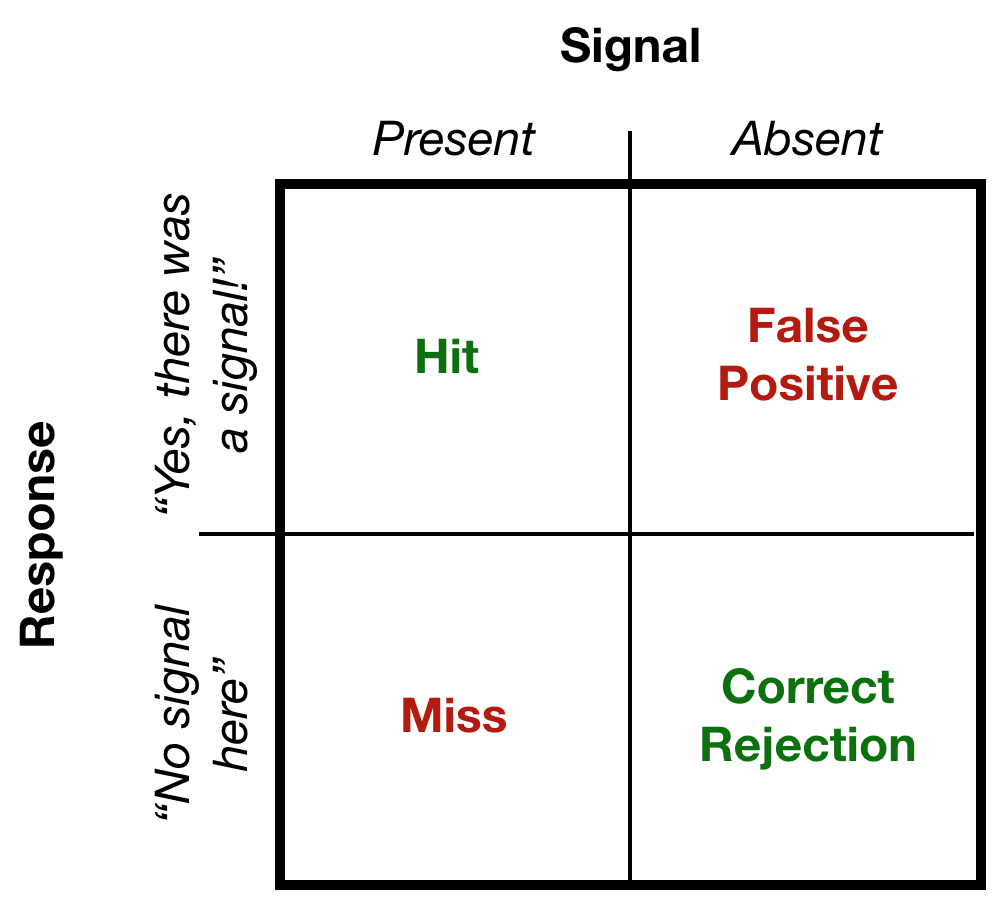
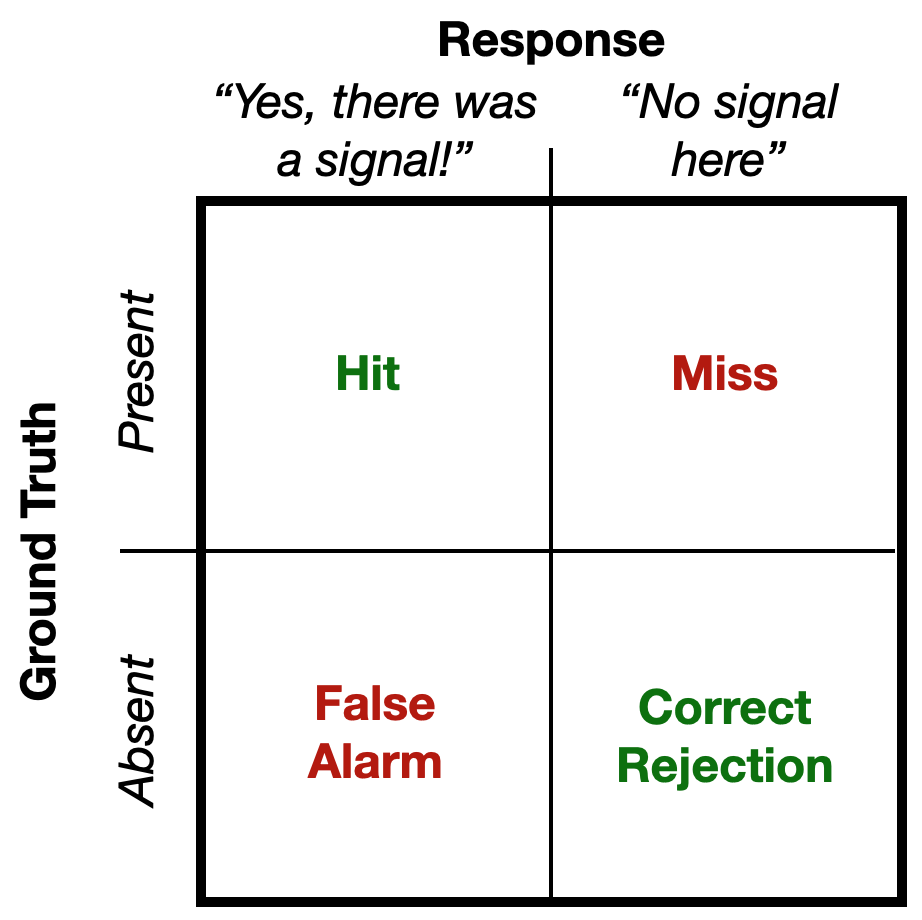
changes to dp calc for psych30 2020: false positives -> false alarms, switches order of entries in d-prime primer 2x2 table

diff --git a/src/components/DPCalc/DPCalc.js b/src/components/DPCalc/DPCalc.js
@@ -41,18 +41,18 @@ class DPCalc extends Component {
             case where this assumption is not met.
             <br />
             <br />
-            <h5>Hits, Misses, False Positives, and Correct Rejections</h5>
+            <h5>Hits, Misses, False Alarms, and Correct Rejections</h5>
             Given the SignalPresent and SignalAbsent distributions, setting a
-            "criterion" tells you the hit rate, miss rate, false positive rate,
-            and correct rejection rate. In plain English, the hit rate is the
+            "criterion" tells you the hit rate, miss rate, false alarm rate, and
+            correct rejection rate. In plain English, the hit rate is the
             proportion of the time that a signal is reported when there actually
-            is a signal, and the false positive rate is the proportion of the
-            time that a signal is reported when there is no signal present.
+            is a signal, and the false alarm rate is the proportion of the time
+            that a signal is reported when there is no signal present.
             <br />
             Remember, the miss rate is just one minus the hit rate, and the
-            correct rejection rate is just one minus the false positive rate, so
+            correct rejection rate is just one minus the false alarm rate, so
             knowing the hit rate gives you the miss rate, and knowing the false
-            positive rate gives you the correct rejection rate.
+            alarm rate gives you the correct rejection rate.
             <br />
             <Row>
               <Col lg={{ size: 3, offset: 4 }} xs={{ size: 6, offset: 3 }}>
@@ -70,29 +70,29 @@ class DPCalc extends Component {
             will be reported. Thus, the hit rate is the proportion of responses
             from the SignalPresent distribution above the criterion, and the
             miss rate is the propoertion of resopnses from the SignalPresent
-            distribution below the criterion. The false positive rate is the
+            distribution below the criterion. The false alarm rate is the
             proportion of responses from the SignalAbsent distribution above the
             criterion, and the correct rejection rate is the propoertion of
             responses from the SignalAbsent distribution below the criterion. A
             "conservative" criterion is relatively high, such that both hits and
-            false positives will be low. A "liberal" criterion is relatively
-            low, such that both hits and false positives will be high.
+            false alarms will be low. A "liberal" criterion is relatively low,
+            such that both hits and false alarms will be high.
             <br />
             <br />
             <h5> ROC Curves </h5>
             Receiver Operating Characteristic (ROC) Curves provide a visual
             representation of discriminability for a sensor. The x-axis is the
-            false positive rate and the y-axis is the hit rate. An ROC curve is
-            composed of all of the false positive rates and hit rates
-            corresponding to all possible criteria one could choose from 0 to{" "}
-            {infinity}. Note that d&#39; is constant along this curve, because
-            different points along the curve only differ in criterion, not in
-            sensor sensitivity. Increasing d&#39; moves the curve up and to the
-            left, whereas decreasing d&#39; brings the curve toward the
+            false alarm rate and the y-axis is the hit rate. An ROC curve is
+            composed of all of the false alarm rates and hit rates corresponding
+            to all possible criteria one could choose from 0 to {infinity}. Note
+            that d&#39; is constant along this curve, because different points
+            along the curve only differ in criterion, not in sensor sensitivity.
+            Increasing d&#39; moves the curve up and to the left, whereas
+            decreasing d&#39; brings the curve toward the
             <InlineMath>y=x</InlineMath> unity line. The{" "}
             <InlineMath>y=x</InlineMath> unity line represents a d&#39; of 0,
-            since hits and false positives are exactly equal along that line,
-            and thus, the Signal Present and Signal Absent distributions must be
+            since hits and false alarms are exactly equal along that line, and
+            thus, the Signal Present and Signal Absent distributions must be
             perfectly overlapping.
             <br />
             <br />
@@ -118,7 +118,7 @@ class DPCalc extends Component {
             <h6> Computing d' from the hit rate and false alarm rate </h6>
             If you have the hit rate and false alarm rate and can assume the two
             distributions are approximately normal, you can also compute d' as:
-            <BlockMath math={"d' = Z(HitRate) - Z(FalsePositiveRate)"} />
+            <BlockMath math={"d' = Z(HitRate) - Z(FalseAlarmRate)"} />
             where Z() is the inverse CDF of the Gaussian distribution.
             <br />
             <hr />

diff --git a/src/components/DPCalc/Calc.js b/src/components/DPCalc/Calc.js
@@ -9,7 +9,7 @@ import {
   roundTruncate,
   getROCCurve,
   normalCDF,
-  normalICDF
+  normalICDF,
 } from "./mathUtils.js";
 
 // stylesheets
@@ -29,7 +29,7 @@ class Calc extends Component {
       isEditingHits: false,
       isEditingFP: false,
       isEditingMisses: false,
-      isEditingCR: false
+      isEditingCR: false,
     };
     this.signal_color = "#0d5e08";
     this.noise_color = "#960f0f";
@@ -79,69 +79,69 @@ class Calc extends Component {
             prevState.noise_mean,
             prevState.noise_sigma
           )
-        )
+        ),
       };
     });
   }
 
   // slider update handlers
-  handleOnChangeSignalMu = value => {
+  handleOnChangeSignalMu = (value) => {
     this.setState({
-      signal_mean: value
+      signal_mean: value,
     });
     this.updateMetrics();
   };
 
-  handleOnChangeSignalSigma = value => {
+  handleOnChangeSignalSigma = (value) => {
     if (this.state.sigma_lock) {
       this.setState({
         signal_sigma: value,
-        noise_sigma: value
+        noise_sigma: value,
       });
     } else {
       this.setState({
-        signal_sigma: value
+        signal_sigma: value,
       });
     }
     this.updateMetrics();
   };
 
-  handleOnChangeNoiseMu = value => {
+  handleOnChangeNoiseMu = (value) => {
     this.setState({
-      noise_mean: value
+      noise_mean: value,
     });
     this.updateMetrics();
   };
 
-  handleOnChangeNoiseSigma = value => {
+  handleOnChangeNoiseSigma = (value) => {
     if (this.state.sigma_lock) {
       this.setState({
         noise_sigma: value,
-        signal_sigma: value
+        signal_sigma: value,
       });
     } else {
       this.setState({
-        noise_sigma: value
+        noise_sigma: value,
       });
     }
     this.updateMetrics();
   };
 
-  handleOnChangeCriterion = value => {
+  handleOnChangeCriterion = (value) => {
     this.setState({
-      criterion: value
+      criterion: value,
     });
     this.updateMetrics();
   };
 
   // checkbox toggle handler
-  toggleCheckbox = e => {
+  toggleCheckbox = (e) => {
     this.setState({
-      sigma_lock: e.target.checked
+      sigma_lock: e.target.checked,
     });
     if (e.target.checked) {
       this.setState({
-        signal_sigma: this.state.noise_sigma
+        signal_sigma: this.state.noise_sigma,
       });
     }
     this.updateMetrics();
@@ -254,7 +254,7 @@ class Calc extends Component {
     this.setState({ isEditingCR: !this.state.isEditingCR });
   }
 
-  updateHitsInput = e => {
+  updateHitsInput = (e) => {
     let { value, min, max } = e.target;
     value = Math.max(Number(min), Math.min(Number(max), Number(value)));
 
@@ -273,11 +273,11 @@ class Calc extends Component {
             (Math.pow(this.state.signal_sigma, 2) +
               Math.pow(this.state.noise_sigma, 2))
         ),
-      misses: 1 - value
+      misses: 1 - value,
     });
   };
 
-  updateMissesInput = e => {
+  updateMissesInput = (e) => {
     let { value, min, max } = e.target;
     value = Math.max(Number(min), Math.min(Number(max), Number(value)));
 
@@ -297,11 +297,11 @@ class Calc extends Component {
             (Math.pow(this.state.signal_sigma, 2) +
               Math.pow(this.state.noise_sigma, 2))
         ),
-      hits: hits
+      hits: hits,
     });
   };
 
-  updateFPsInput = e => {
+  updateFPsInput = (e) => {
     let { value, min, max } = e.target;
     value = Math.max(Number(min), Math.min(Number(max), Number(value)));
 
@@ -320,11 +320,11 @@ class Calc extends Component {
             (Math.pow(this.state.signal_sigma, 2) +
               Math.pow(this.state.noise_sigma, 2))
         ),
-      cr: 1 - value
+      cr: 1 - value,
     });
   };
 
-  updateCRsInput = e => {
+  updateCRsInput = (e) => {
     let { value, min, max } = e.target;
     value = Math.max(Number(min), Math.min(Number(max), Number(value)));
 
@@ -344,7 +344,7 @@ class Calc extends Component {
             (Math.pow(this.state.signal_sigma, 2) +
               Math.pow(this.state.noise_sigma, 2))
         ),
-      cr: value
+      cr: value,
     });
   };
 
@@ -501,7 +501,7 @@ class Calc extends Component {
         <Row>
           <Col lg="6" xs="6">
             <FormGroup>
-              <Label for="FPsInput">False Positives:</Label>
+              <Label for="FPsInput">False Alarms:</Label>
               {FPBox}
             </FormGroup>
           </Col>

diff --git a/src/components/DPCalc/ROCCurve.js b/src/components/DPCalc/ROCCurve.js
@@ -6,7 +6,7 @@ import {
   LineChart,
   CartesianGrid,
   XAxis,
-  YAxis
+  YAxis,
 } from "recharts";
 
 class ROCCurve extends Component {
@@ -19,7 +19,7 @@ class ROCCurve extends Component {
       >
         <CartesianGrid strokeDasharray="3 3" />
         <XAxis domain={[0, 1]} type="number" dataKey="false_positives">
-          <Label value="False Positives" offset={-5} position="insideBottom" />
+          <Label value="False Alarms" offset={-5} position="insideBottom" />
         </XAxis>
         <YAxis label={{ value: "Hits", angle: -90, position: "insideLeft" }} />
         <ReferenceLine
